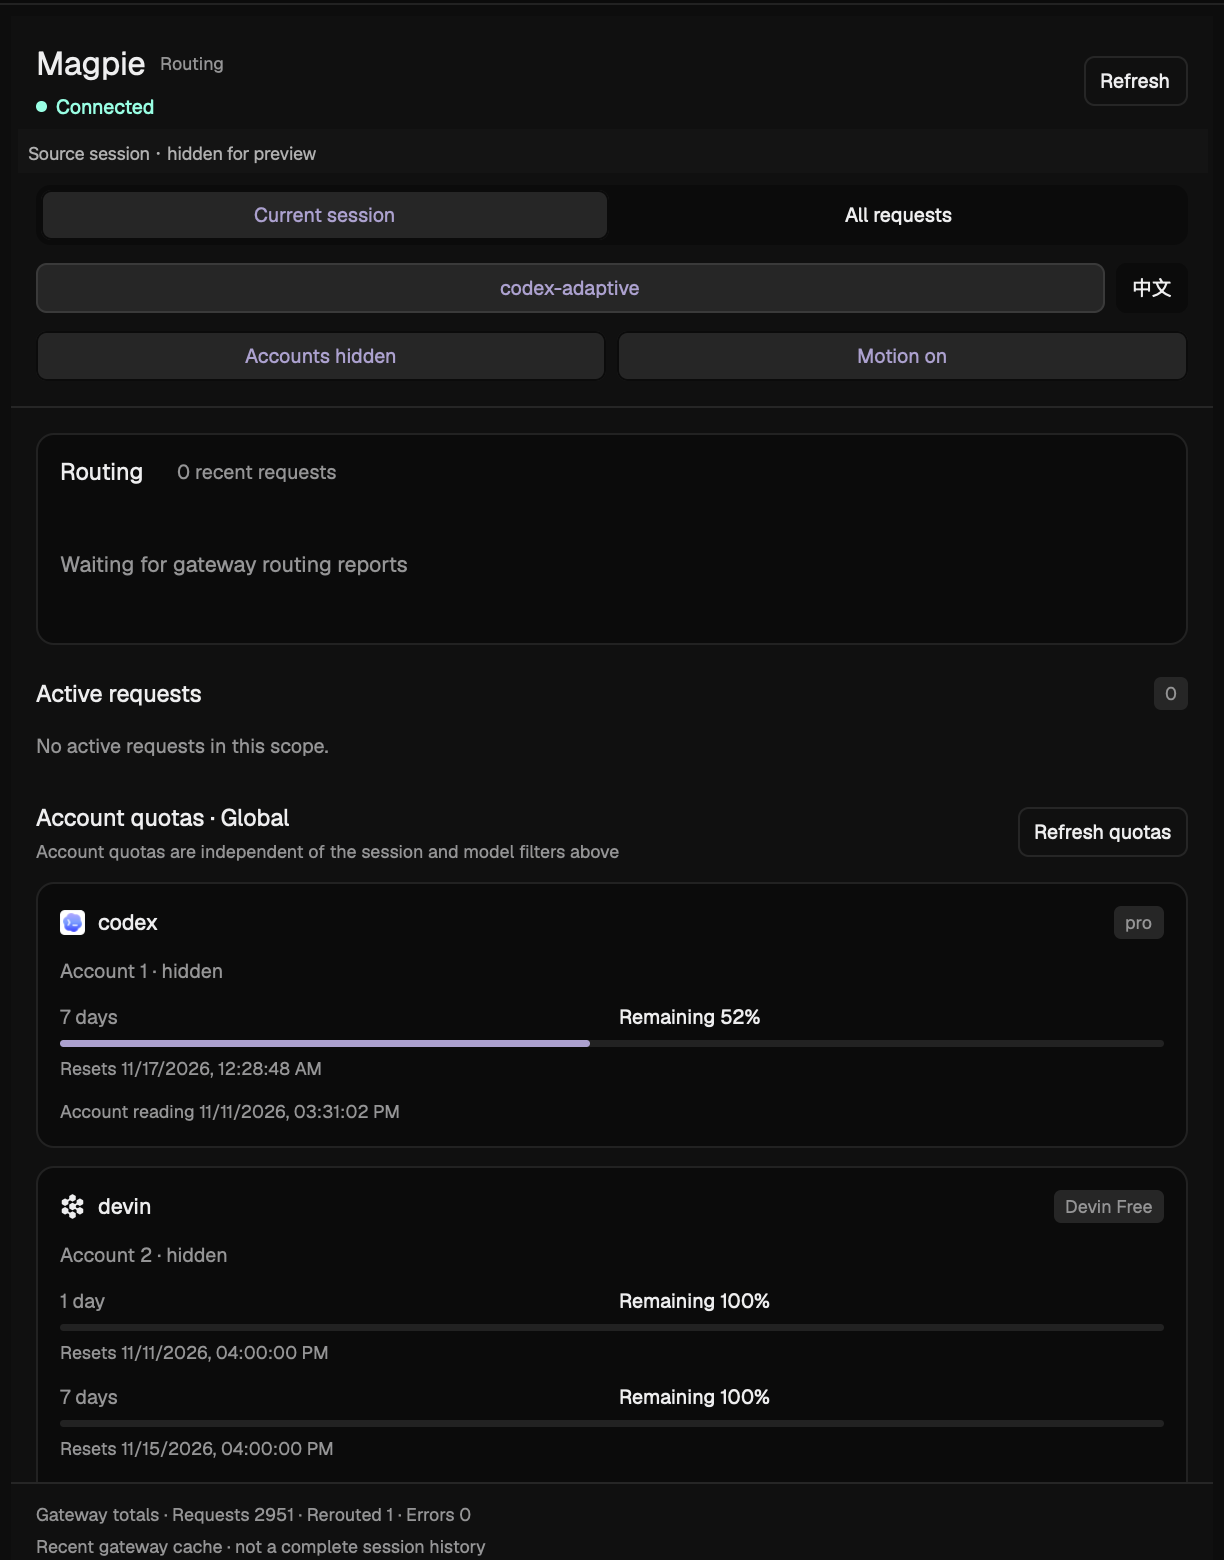
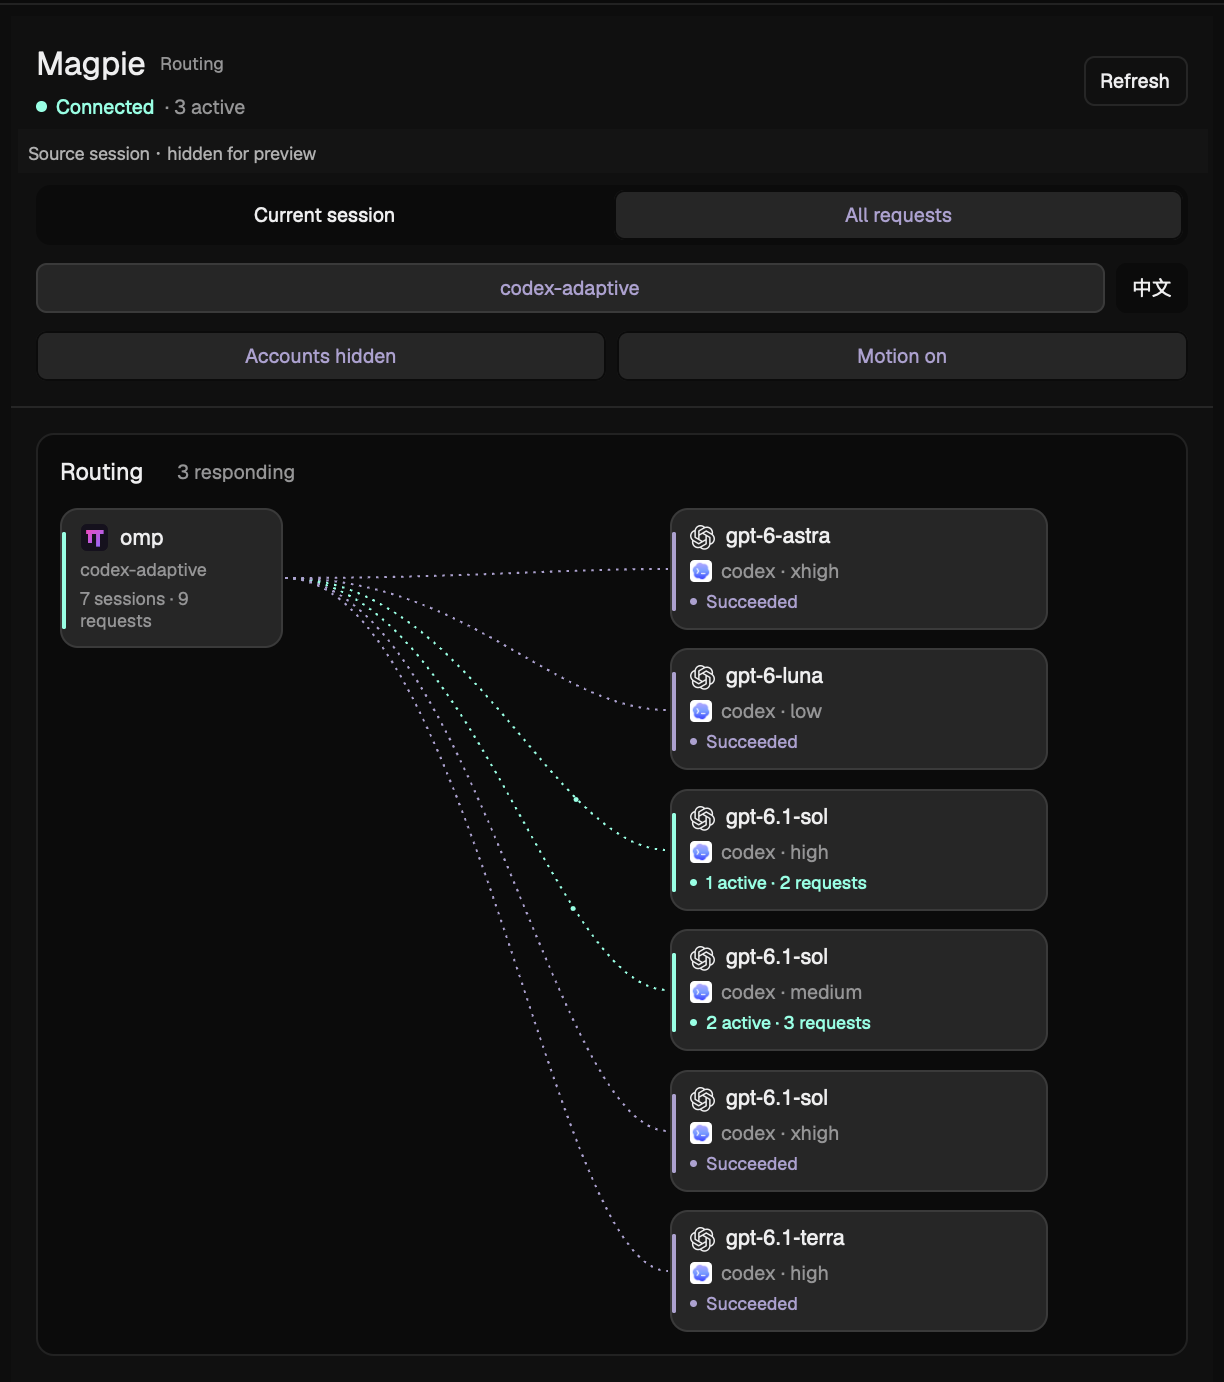
Show real routing activity in plugin previews

diff --git a/README.md b/README.md
@@ -4,7 +4,9 @@ A native [Herdr](https://herdr.dev) sidebar for [Magpie](https://github.com/yeto
 
 [简体中文](README.zh-CN.md) · [Rebuild recipe](RECIPE.md)
 
-![Herdr Magpie Route](preview.png)
+![Live native routing from OMP to model branches](preview.gif)
+
+Recorded from real gateway requests, with moving points on active paths and distinct candidate/completed states. [Full sidebar screenshot](preview.png). Session identifiers are removed.
 
 ## Features
 

diff --git a/README.zh-CN.md b/README.zh-CN.md
@@ -4,7 +4,9 @@
 
 [English](README.md) · [重建说明](RECIPE.md)
 
-![Herdr Magpie Route](preview.png)
+![OMP 分流到模型分支的原生路由动图](preview.gif)
+
+录制自真实网关请求，可看到活动路径上的流动光点，以及候选、已完成分支的不同状态。[完整侧栏截图](preview.png)。会话标识已脱敏。
 
 ## 功能
 
